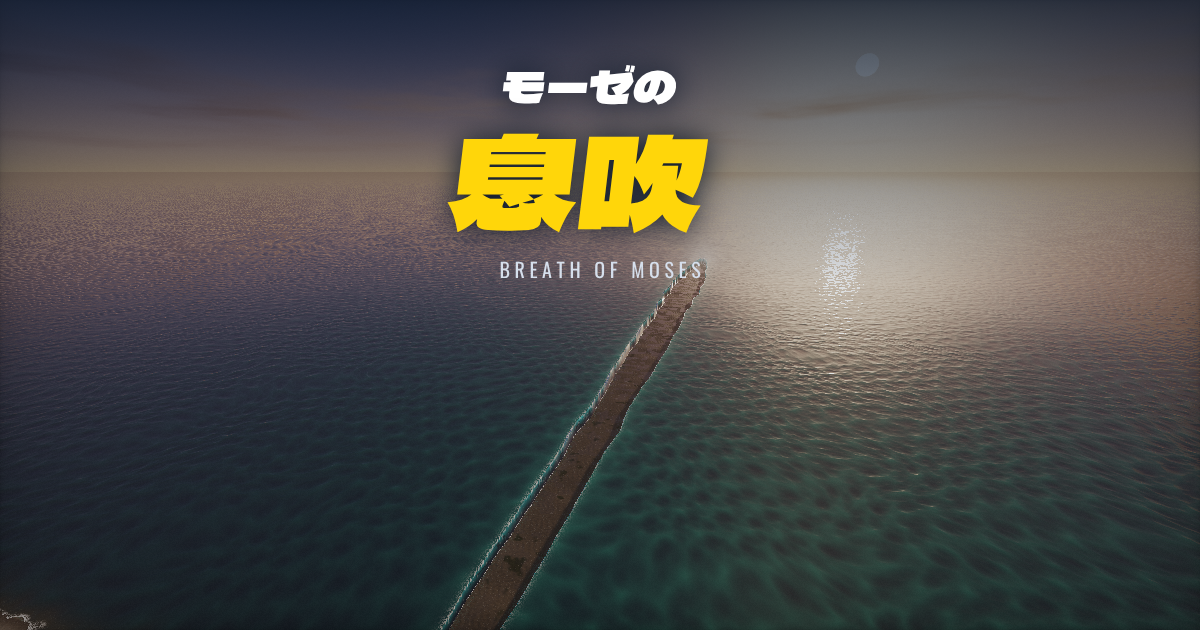
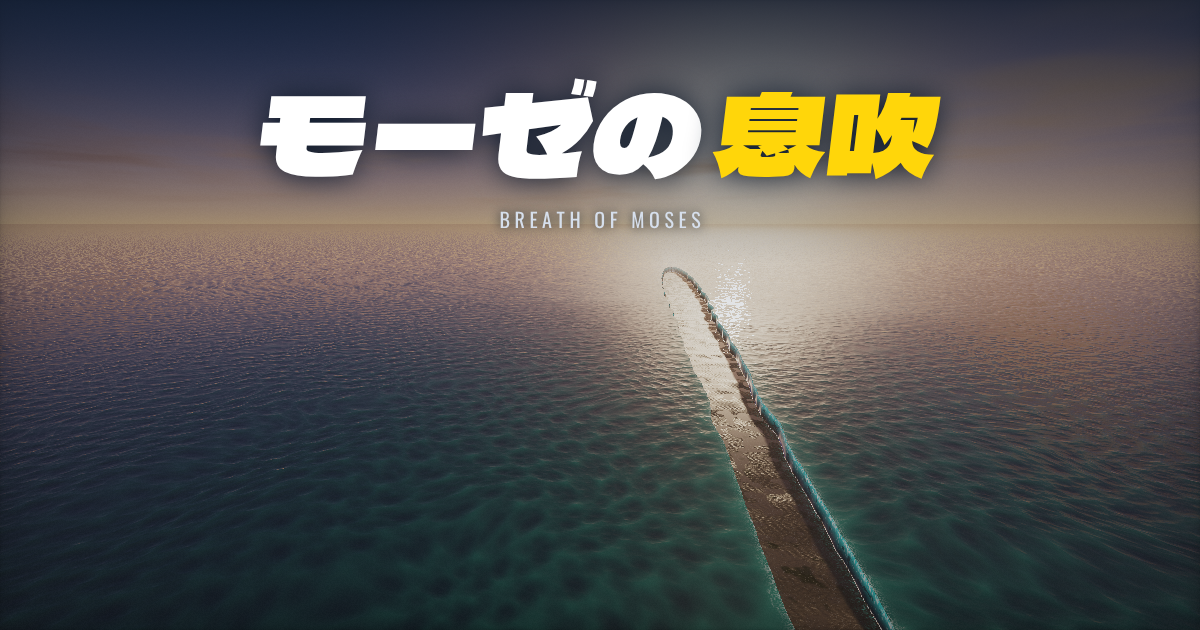
モーゼの息吹：投稿画像に割れた海を入れる、サムネとOGPのタイトルを1行に、吹け!!をテキストだけの演出に、残り時間ゲージを画面上部に
Claude-Session: https://claude.ai/code/session_01XJ9ANvvZGtAMuXvwoba9Cf

Changed region(s): [[0.0, 0.0905, 0.9867, 1.0], [0.0, 0.9651, 0.0617, 1.0]]

diff --git a/public/apps/moses-ibuki/style.css b/public/apps/moses-ibuki/style.css
@@ -18,7 +18,7 @@ body[data-screen=result] #shade{background:linear-gradient(#0e1a2bcc,#0e1a2b66 3
 
 header{position:fixed;inset:var(--top) 22px auto;display:flex;align-items:center;justify-content:space-between;gap:8px;z-index:9;pointer-events:none}
 #brandMini{font:400 11px var(--logo);letter-spacing:.06em;opacity:0;transition:opacity .2s}
-body[data-screen=play] #brandMini{opacity:.8}
+body[data-screen=play] #brandMini{opacity:0}
 .headerbuttons{display:flex;gap:8px;pointer-events:auto}
 body[data-screen=play] .headerbuttons{visibility:hidden}
 .icon-button{background:#0e1a2b33;border:1px solid var(--line);width:34px;height:34px;color:var(--bone);display:grid;place-items:center}
@@ -92,7 +92,14 @@ html:not([lang=ja]):not([lang^=zh]) .title-screen h1{gap:.3em}
 .breath-meter{flex:1;height:10px;background:#0e1a2b99;box-shadow:inset 0 0 0 1px #ffffff40;position:relative;overflow:hidden}
 .breath-meter i{position:absolute;left:0;top:0;bottom:0;width:0;background:linear-gradient(90deg,#3fd0bf,#bff5ee 70%,#fff)}
 .breath-meter .peak{position:absolute;top:-2px;bottom:-2px;width:2px;background:var(--sun);left:0}
-.time-row{width:min(300px,80vw)}.time-bar{height:2px;background:#ffffff22}.time-bar i{display:block;height:100%;width:100%;background:#ffffff99}
+.time-top{position:fixed;left:22px;right:22px;top:calc(var(--top) + 2px);display:flex;flex-direction:column;gap:6px;opacity:.55;transition:opacity .25s}
+body.blowing .time-top{opacity:1}
+.time-label{display:flex;align-items:baseline;gap:6px;justify-content:flex-end}
+.time-label span{font-size:11px;font-weight:700;letter-spacing:.14em;color:var(--ash);margin-right:auto}
+.time-label b{font:600 26px/1 var(--num);color:#fff;font-variant-numeric:tabular-nums;letter-spacing:.02em}.time-label small{font-size:11px;color:var(--ash);font-weight:700}
+.time-top .time-bar{height:8px;background:#0e1a2b99;box-shadow:inset 0 0 0 1px #ffffff55}
+.time-top .time-bar i{display:block;height:100%;width:100%;background:var(--sun);transition:background .2s}
+.time-top.low .time-bar i{background:var(--peach)}.time-top.low .time-label b{color:var(--peach)}
 .mic-arrow{width:2px;height:28px;background:linear-gradient(transparent,var(--sun));position:relative;animation:mic-hint 1.1s ease-in-out infinite;margin-top:2px}
 .mic-arrow:after{content:'';position:absolute;left:-5px;bottom:-4px;border:6px solid transparent;border-top:8px solid var(--sun);border-bottom:0}
 @keyframes mic-hint{0%,100%{transform:translateY(-4px);opacity:.5}50%{transform:translateY(4px);opacity:1}}
@@ -108,11 +115,10 @@ body[data-screen=play]{touch-action:manipulation;user-select:none;-webkit-user-s
 #cut strong em{font-style:normal;color:var(--sun);font-size:.6em;margin-left:.04em;text-shadow:0 6px 0 var(--sea)}
 html:not([lang=ja]):not([lang^=zh]) #cut strong{font-size:clamp(64px,22vw,150px)}
 #cut small{font:600 14px var(--num);letter-spacing:.6em;text-indent:.6em;color:var(--sun);margin-top:16px}
-.cut-lines{position:absolute;inset:-20%;background:repeating-conic-gradient(from 0deg at 50% 50%,#ffffff00 0deg 4deg,#ffffff30 4deg 5deg);mask:radial-gradient(circle,transparent 24%,#000 60%);-webkit-mask:radial-gradient(circle,transparent 24%,#000 60%)}
-#cut.show{animation:cut-in 1.1s both}#cut.show strong{animation:cut-slam 1.1s both}#cut.show .cut-lines{animation:cut-spin 1.1s linear both}
+#cut.show{animation:cut-in 1.1s both}#cut.show strong{animation:cut-slam 1.1s both}#cut.show small{animation:cut-sub 1.1s both}
+@keyframes cut-sub{0%,10%{opacity:0;letter-spacing:1.4em}30%{opacity:1;letter-spacing:.6em}80%{opacity:1}100%{opacity:0}}
 @keyframes cut-in{0%{opacity:0}6%{opacity:1}75%{opacity:1}100%{opacity:0}}
 @keyframes cut-slam{0%{transform:skewX(-10deg) rotate(-4deg) scale(2.6);filter:blur(6px)}12%{transform:skewX(-10deg) rotate(-4deg) scale(.92);filter:none}20%{transform:skewX(-10deg) rotate(-4deg) scale(1.04)}80%{transform:skewX(-10deg) rotate(-4deg) scale(1)}100%{transform:skewX(-10deg) rotate(-4deg) scale(1.3) translateY(-30%);opacity:0}}
-@keyframes cut-spin{from{transform:rotate(0)}to{transform:rotate(25deg)}}
 
 /* シート */
 .sheet{position:fixed;inset:0;z-index:10;background:#0e1a2bb8;display:flex;align-items:flex-end;justify-content:center;padding:0 0 var(--bottom)}

diff --git a/public/apps/moses-ibuki/game.js b/public/apps/moses-ibuki/game.js
@@ -77,7 +77,7 @@ async function startRound() {
   screen('play'); document.body.classList.remove('blowing');
   Object.assign(S, { L: 0, W: 9, close: 0, front: 0, p: 0, started: false, quiet: 0, sustain: 0, mult: 1, maxMult: 1, peak: 0, dur: 0, taps: [], warned: false, fingerUsed: set.mode === 'finger' });
   updateHud();
-  $('blowGuide').hidden = true; $('holdBtn').hidden = true; $('count').hidden = true;
+  $('blowGuide').hidden = true; $('holdBtn').hidden = true; $('count').hidden = true; $('timeTop').hidden = true;
   sound.setMusic(false); sound.setAmb(0.12);
   if (set.mode === 'mic') {
     phase('calib');
@@ -112,11 +112,12 @@ function countdown() {
 function beginBlow() {
   phase('blow');
   const c = $('cut'); c.classList.remove('show'); void c.offsetWidth; c.classList.add('show');
-  sound.cut(); flash(); vib(40);
+  sound.cut(); vib(40);
   $('blowGuide').hidden = false; $('blowGuide').classList.remove('warn');
   $('blowHint').textContent = set.mode === 'mic' ? t('blowHint') : t('holdHint');
   $('blowSub').textContent = set.mode === 'mic' ? t('blowSub') : t('finger');
   $('holdBtn').hidden = set.mode !== 'finger';
+  $('timeTop').hidden = false;
   $('breathPeak').style.left = '0';
 }
 function phase(p) { S.phase = p; S.phaseT = 0; }
@@ -124,7 +125,7 @@ function phase(p) { S.phase = p; S.phaseT = 0; }
 function endBlow() {
   phase('reveal');
   document.body.classList.remove('blowing');
-  $('holdBtn').hidden = true;
+  $('holdBtn').hidden = true; $('timeTop').hidden = true;
   if (breath) breath.stop();
   sound.setRumble(0);
   if (S.L > 5) { sound.roar(); vib([60, 40, 120]); }
@@ -207,7 +208,10 @@ function updateHud() {
   $('multBox').classList.toggle('on', S.mult > 1.05); $('multBox').classList.toggle('hot', S.mult > 50);
   $('breathFill').style.width = (S.p * 100).toFixed(1) + '%';
   $('breathPeak').style.left = (S.peak * 100).toFixed(1) + '%';
-  $('timeFill').style.width = (S.started ? Math.max(0, 1 - S.dur / BLOW_LIMIT) * 100 : 100) + '%';
+  const rem = S.started ? Math.max(0, BLOW_LIMIT - S.dur) : BLOW_LIMIT;
+  $('timeFill').style.width = (rem / BLOW_LIMIT * 100).toFixed(1) + '%';
+  $('timeSec').textContent = rem.toFixed(1);
+  $('timeTop').classList.toggle('low', S.started && rem < 3);
 }
 
 // カメラ：割れた先端が常に画面に入るように
@@ -243,8 +247,10 @@ function snapshotCard() {
   try {
     const cv = ocean.canvas, ow = cv.width, oh = cv.height;
     cv.width = 1200; cv.height = 675;
-    const L = S.L, h = Math.min(26 + L * 0.25, 320);
-    const st = drawState(S.time); st.cam = [-(30 + h * 0.45), h, -(50 + h * 0.35)]; const tz = 40 + Math.min(L * 0.5, h * 6); st.tgt = [st.cam[0] - 0.42 * (tz - st.cam[2]), -6, tz]; st.roll = 0; st.fov = 1.6;
+    // 割れた道が文字パネルの右側に入るよう、斜め上空から見る
+    const L = S.L, h = Math.min(24 + L * 0.18, 220);
+    const st = drawState(S.time); st.cam = [10 + h * 0.45, h, -(80 + h * 0.3)];
+    const tz = 40 + Math.min(L * 0.45, h * 5); st.tgt = [st.cam[0] + 0.24 * (tz - st.cam[2]), -8, tz]; st.roll = 0; st.fov = 1.6; st.front = Math.max(st.front, 0.3);
     ocean.render(st);
     const shot = document.createElement('canvas'); shot.width = 1200; shot.height = 675; shot.getContext('2d').drawImage(cv, 0, 0);
     cv.width = ow; cv.height = oh; ocean.render(drawState(S.time));

diff --git a/public/apps/moses-ibuki/index.html b/public/apps/moses-ibuki/index.html
@@ -53,6 +53,7 @@
 </main>
 
 <div id="hud" hidden>
+ <div id="timeTop" class="time-top" hidden><div class="time-label"><span data-i18n="limit">残り</span><b id="timeSec">12.0</b><small data-i18n="sec">秒</small></div><div class="time-bar"><i id="timeFill"></i></div></div>
  <div class="dist-box">
   <small data-i18n="split">割れた距離</small>
   <div class="dist-num"><b id="hudDist">0</b><span id="hudUnit">m</span></div>
@@ -64,13 +65,12 @@
   <strong id="blowHint" data-i18n="blowHint"></strong>
   <small id="blowSub" data-i18n="blowSub"></small>
   <div class="breath-row"><span data-i18n="breath">息</span><div class="breath-meter"><i id="breathFill"></i><b class="peak" id="breathPeak"></b></div></div>
-  <div class="time-row"><div class="time-bar"><i id="timeFill"></i></div></div>
   <div class="mic-arrow" aria-hidden="true"></div>
  </div>
  <div id="holdBtn" class="hold-btn" hidden aria-hidden="true"><b>TAP</b></div>
 </div>
 
-<div id="cut" aria-hidden="true"><div class="cut-lines"></div><strong><span id="cutText">吹け</span><em>!!</em></strong><small>BREATH OF MOSES</small></div>
+<div id="cut" aria-hidden="true"><strong><span id="cutText">吹け</span><em>!!</em></strong><small>BREATH OF MOSES</small></div>
 
 <div id="sheet" class="sheet" hidden>
  <div class="sheet-card" role="dialog" aria-modal="true">
